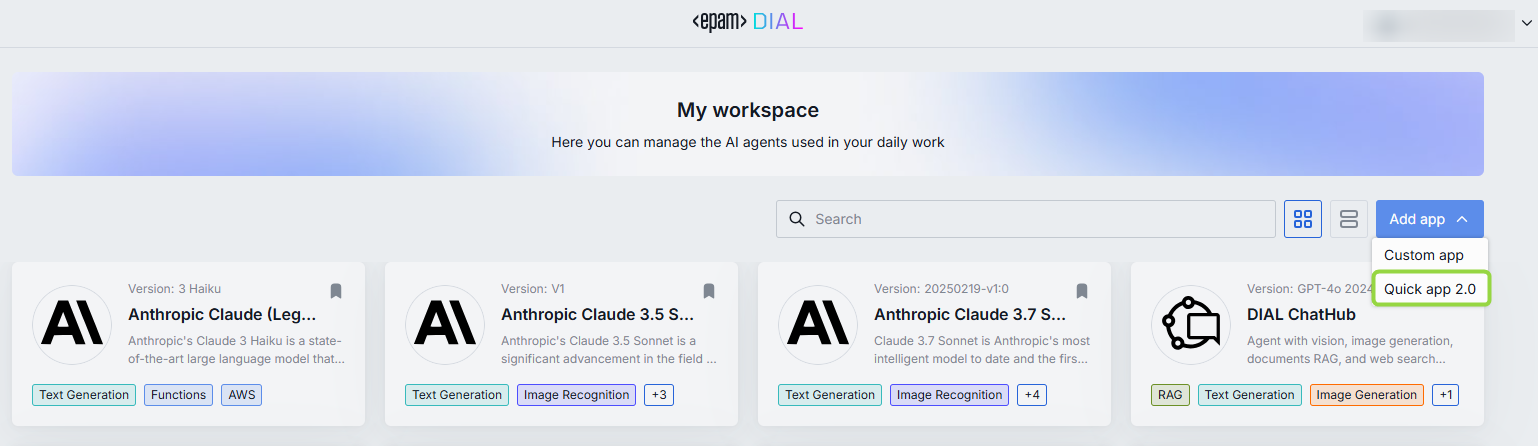
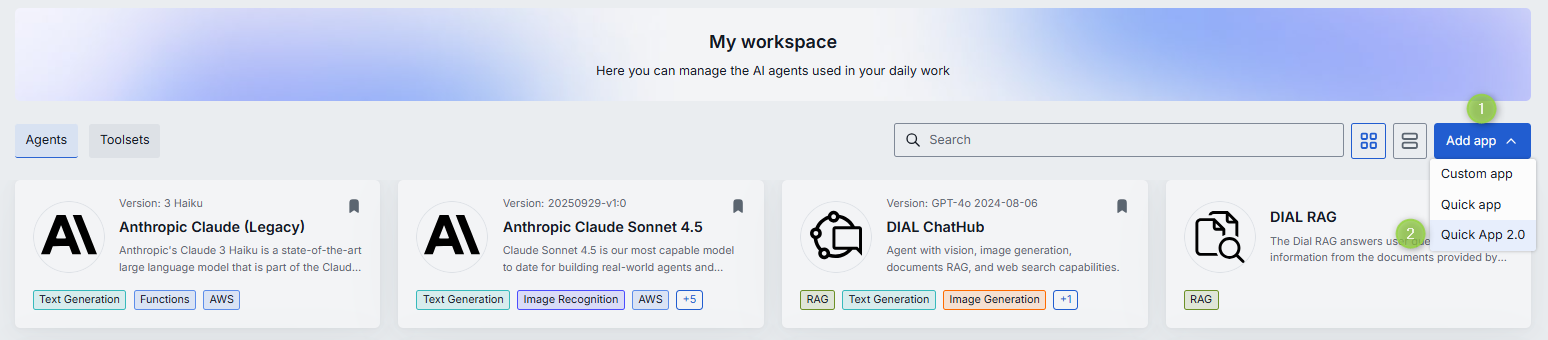
issue 6192

diff --git a/docs/tutorials/0.user-guide.md b/docs/tutorials/0.user-guide.md
@@ -94,6 +94,8 @@ During a conversation, you can access several tools to work with prompts.
 
 ##### Copying responses
 
+> **TIP**: You can set the response format in [conversation settings](#response-format).
+
 You can copy answers to reuse them some place else.
 
 * Copy as plain text
@@ -1161,8 +1163,8 @@ Quick Apps 2.0 is a composer for building applications from reusable components.
 
 ##### Add Quick App 2.0
 
-1. In My workspace, click **Add app** and select **Quick App 2.0** to launch the Application Builder for Quick Apps 2.0.
-2. Specify parameters of a new application. Refer to [Add application form](#addedit-quick-app-20-form) to see the description of parameters.
+1. In My workspace, click **Add app** and select **Quick App 2.0** to launch the application editor for Quick Apps 2.0.
+2. Specify parameters of a new application. Refer to [Add/Edit Quick App 2.0 Form](#addedit-quick-app-20-form) to see the description of parameters.
 3. In the preview screen, you can test your solution.
 4. When ready, click **Save and exit** to register the application in DIAL.
 
@@ -1170,25 +1172,70 @@ Quick Apps 2.0 is a composer for building applications from reusable components.
 
 ![](./img/register-quick-app-2.png)
 
-##### Add/Edit Quick app 2.0 form
+##### Add/Edit Quick App 2.0 Form
+
+**General Info**
 
 | Field | Required | Description |
 |-------|:--------:|-------------|
 | Name | Yes | Application name that will be displayed on UI. |
 | Version | Yes | Application version, following the format `x.y.z` and contain only numbers and dots. |
-| Icon | No | The icon that will be rendered in the chat UI and Marketplace for this app. |
+| Icon | No | The icon that will be rendered in the chat UI and Marketplace for this app. Use [files manager](#files) to select an existing icon or upload a new one. |
 | Description | No | A short description that will be rendered in the chat UI and Marketplace. **Tip:** Add two line breaks and provide an addition description if needed. |
 | Topics | No | You can assign one of pre-defined topics to your app. Topics and their styles are defined in [DIAL Chat Themes](https://github.com/epam/ai-dial-chat-themes/blob/development/static/config.json). |
-| Document relative URLs | No | If your application includes an instruction in the Toolset to query a document(s) in order to generate a response, use this parameter to select document(s) in [Files](#files). |
+
+![](./img/quick-app-2-general-info.png)
+
+**App Settings/Orchestrator**
+
+In this section you can define LLM that drives the agent: picks tools, calls them, and composes the final answer.
+
+| Field | Required | Description |
+|-------|:--------:|-------------|
 | Model | Yes | Select one of the available language models from the dropdown list. This list includes only available models that can work with toolsets. This model will be used to reply to prompts from users and to orchestrate actions of agents. |
-| Agents & Toolsets | No | Add available [toolsets](#toolsets), [apps](#applications) or [AI models](#models) that will be used as agents in your application. Advanced users can use JSON editor to define agents and toolsets.<br />Hover over the added agents and toolsets to see their details and state.<br />Click any added agent or toolset to access additional actions such as deploy/undeploy for code apps or login/logout for toolsets.<br />**Note**: When using toolsets, make sure to be logged in to use them if authentication is required. |
-| Attachment types | No | Types of attachments allowed for this application. Provide the types according to [MIME standard](https://developer.mozilla.org/en-US/docs/Web/HTTP/Basics_of_HTTP/MIME_types/Common_types). E.g.: image/png and click enter. Enter `*/*` to allow all types. |
-| Max. attachments number | No | The maximal number of attachments the application is allowed to accept. Skip to apply the max integer number. Enter `0` to disable attachments. |
-| Instructions | No | System prompt text. |
-| Code Interpreter | No | Enable toggle to use code interpreter agent in your app's workflow. Code Interpreter can execute or analyze Python code in a controlled environment, or generate visualizations directly within the conversation. |
+| Instructions | No | Use text editor to enter instructions to the orchestration LLM. |
 | Temperature | No | The temperature controls the creativity and randomness of the model's output. |
 
-![](./img/quick-app2-builder.png)
+![](./img/quick-app-2-orchestrator.png)
+
+**App Settings/Context & Tools**
+
+In this section you can define knowledge and capabilities available to the agent: context files, toolsets, and code execution.
+
+| Field | Required | Description |
+|-------|:--------:|-------------|
+| Agents & Toolsets | No | Add available [toolsets](#toolsets), [apps](#applications) or [AI models](#models) that will be used as agents in your application. Advanced users can use JSON editor to define agents and toolsets.<br />Hover over the added agents and toolsets to see their details and state.<br />Click any added agent or toolset to access additional actions such as deploy/undeploy for code apps or login/logout for toolsets.<br />**Note**: When using toolsets, make sure to be logged in to use them if authentication is required. |
+| Context files | No | Add context files that will be used by the agents to generate responses. Agents will decide which context files to use, when and to which tool to route them. These files can include documents, datasets, or any other relevant information. |
+| Code Interpreter | No | Enable toggle to use code interpreter agent in your app's workflow. Code Interpreter can execute or analyze Python code in a controlled environment, or generate visualizations directly within the conversation. |
+
+![](./img/quick-app-2-context-tools.png)
+
+**App Settings/User Attachments**
+
+In this section you can define rules for files that end users can upload during a conversation.
+
+| Field | Required | Description |
+|-------|:--------:|-------------|
+| Attachment types | No | Types of attachments allowed for this application. Provide the types according to [MIME standard](https://developer.mozilla.org/en-US/docs/Web/HTTP/Basics_of_HTTP/MIME_types/Common_types). E.g.: `image/png` and click enter. Enter `*/*` to allow all types. |
+| Max. attachments number | No | The maximal number of attachments the application is allowed to accept. Skip to apply the max integer number. Enter `0` to disable attachments. |
+
+![](./img/quick-app-2-user-attachments.png)
+
+**App Settings/Conversation Starters**
+
+In this section you can define buttons shown near the chat input that suggest example prompts to help users start a conversation.
+
+> Refer to [Custom Buttons](/docs/tutorials/1.developers/4.apps-development/1.custom-buttons.md) in Apps to learn more.
+
+| Field | Required | Description |
+|-------|:--------:|-------------|
+| Button title | Yes | The text that will be displayed on the conversation starter button. |
+| Prompt to send in chat | Yes | The prompt that will be sent in the chat when the conversation starter button is clicked. |
+| Intro text | No | Text shown above starter buttons. |
+| Starters behavior | Yes | **Immediately send prompt**: When clicked, the button will send the predefined prompt in the chat. <br />**Populate prompt in the chat input**: When clicked, the button will populate the chat input field with the predefined prompt, allowing users to modify it before sending. |
+| Disable chat input | No | A toggle allowing to enable/disable chat input so users can only use starters. | 
+
+![](./img/quick-app2-starters.png)
 
 #### Code Apps
 